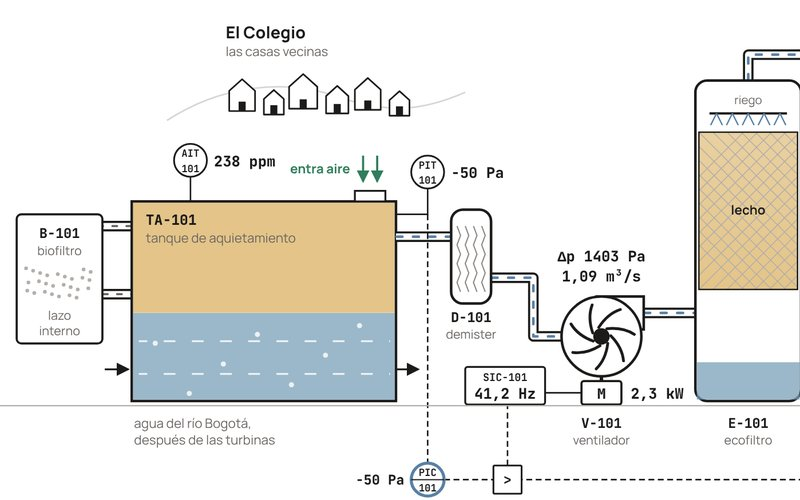
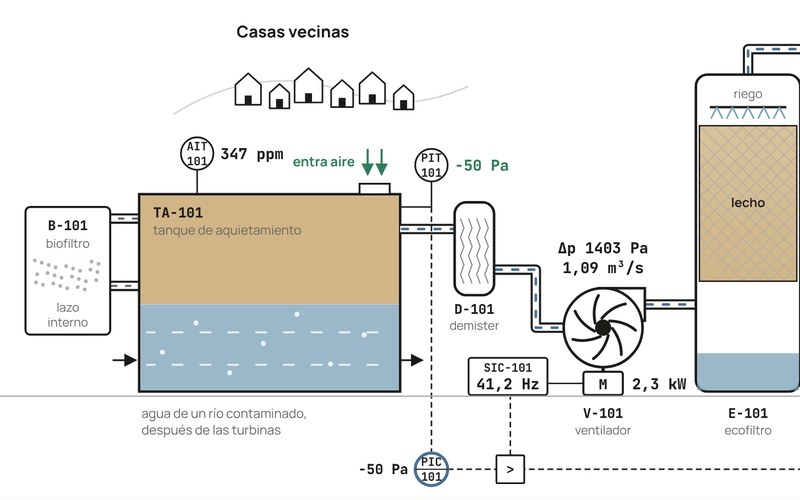
Ecofiltro: el simulador sin nombres de la central ni del municipio
El simulador habla de una central hidroeléctrica colombiana que trata el H₂S
que suelta el agua de un río contaminado: el diagrama muestra casas vecinas sin
nombre, el agua llega «de un río contaminado» y las fugas son «del tanque», sin
tratar. Cambian el rótulo y el texto de entrada de la actividad, el indicador y
el estado de las fugas, el balance, los comentarios del código, la descripción
en los datos del curso y la miniatura, rehecha desde el diagrama nuevo.

En «Lo que sigue», el simulador deja escapar gas sin tratar, no «hacia el
pueblo», en los dos idiomas.

Claude-Session: https://claude.ai/code/session_01JZRMX1gnU5bddoyutno44Z

Changed region(s): [[0.0, 0.06, 1.0, 1.0], [0.25, 0.03, 0.5625, 0.24], [0.2188, 0.21, 0.25, 0.24]]

diff --git a/public/classroom/iqya-2031-2026-20/simulaciones/Explorador_Ecofiltro.html b/public/classroom/iqya-2031-2026-20/simulaciones/Explorador_Ecofiltro.html
@@ -317,7 +317,7 @@ body:not(.mode-act) #aShell, body:not(.mode-act) #kpisAct, body:not(.mode-act) #
   <div class="kpis" id="kpisAct">
     <div class="kpi"><div class="lbl">H₂S que llega</div><div class="v" id="kaIn">—</div><div class="u">ppm · tanque de aquietamiento</div></div>
     <div class="kpi" id="kaOutc"><div class="lbl">H₂S a la salida</div><div class="v" id="kaOut">—</div><div class="u" id="kaOutu">ppm · criterio interno de 20 ppm</div></div>
-    <div class="kpi" id="kaLeakc"><div class="lbl">Fugas hacia El Colegio</div><div class="v" id="kaLeak">—</div><div class="u" id="kaLeaku">g/h</div></div>
+    <div class="kpi" id="kaLeakc"><div class="lbl">Fugas del tanque</div><div class="v" id="kaLeak">—</div><div class="u" id="kaLeaku">g/h</div></div>
     <div class="kpi" id="kaPc"><div class="lbl">Presión del tanque</div><div class="v" id="kaP">—</div><div class="u" id="kaPu">Pa</div></div>
     <div class="kpi"><div class="lbl">Ventilador V-101</div><div class="v" id="kaF">—</div><div class="u" id="kaFu">Hz</div></div>
     <div class="kpi"><div class="lbl">Potencia</div><div class="v" id="kaW">—</div><div class="u" id="kaWu">kW</div></div>
@@ -369,7 +369,7 @@ body:not(.mode-act) #aShell, body:not(.mode-act) #kpisAct, body:not(.mode-act) #
 
     <!-- 1 · Planta -->
     <section class="panel apanel on" data-apanel="pl">
-      <div class="ph"><h2>La planta en el tiempo</h2><span class="lbl">Central Hidroeléctrica El Paraíso · El Colegio, Cundinamarca</span><p>El V-101 saca el gas del tanque de aquietamiento y lo empuja por el ecofiltro y el carbón activado. Si saca menos gas del que suelta el agua, el tanque sube de presión y el H₂S se escapa hacia el pueblo. La carga cambia hora por hora: siga la corrida en el diagrama y en las tendencias.</p></div>
+      <div class="ph"><h2>La planta en el tiempo</h2><span class="lbl">Una central hidroeléctrica colombiana</span><p>El V-101 saca el gas del tanque de aquietamiento y lo empuja por el ecofiltro y el carbón activado. Si saca menos gas del que suelta el agua, el tanque sube de presión y el H₂S se escapa por sus rendijas sin tratar. La carga cambia hora por hora: siga la corrida en el diagrama y en las tendencias.</p></div>
       <div class="card">
         <div class="stage iz-wrap" id="aStage">
           <svg id="actPlant" role="img" aria-label="Diagrama de la planta: el tanque de aquietamiento, el biofiltro, el demister D-101, el ventilador V-101, el ecofiltro E-101, el demister D-102, el carbón activado y la chimenea, con sus instrumentos, el lazo de control y la presión a lo largo del tren de gas"></svg>
@@ -1011,7 +1011,7 @@ IsoZoom.prototype.movePinch = function () {
 };
 /* =====================================================================
    Explorador del ecofiltro · Proyecto de Operaciones Unitarias
-   El biopercolador E-101 de la Central Hidroeléctrica El Paraíso, solo:
+   El biopercolador E-101 de la central, solo:
    el gas que llega del tanque, el ventilador, el lecho, el riego y la
    biopelícula. Modelo de la tesis de maestría de Jesús Rafael Acevedo
    Mastrogiacomo (Uniandes, 2026), ecuaciones 4.16, 4.17, 4.7 y 5.3.
@@ -1995,7 +1995,7 @@ function initFig() {
    El modelo de Jesús Rafael Acevedo Mastrogiacomo con el ecofiltro de este explorador. El gas se desprende del agua
    en el tanque de aquietamiento TA-101 a razón constante; lo que varía es cuánto H₂S trae. El V-101 lo extrae por el
    D-101, lo empuja por el ecofiltro E-101, el D-102 y el tanque de adsorción, y lo bota por la chimenea. Si extrae
-   menos gas del que se desprende, el tanque sube de presión y el gas sale por las rendijas hacia el pueblo; si extrae
+   menos gas del que se desprende, el tanque sube de presión y el gas sale por las rendijas sin tratar; si extrae
    más, entra aire de afuera. Los ventiladores del biofiltro B-101 mueven un lazo interno fijo que vuelve al tanque.
    El gas es incompresible: las presiones del tren se apartan menos del 2 % de la atmosférica. */
 var PLANT = {
@@ -2239,7 +2239,7 @@ function aBuild() {
   $('#aScen').innerHTML = SCEN.map(function (s) {
     return '<button type="button" class="opt" data-v="' + s.id + '"><span class="dotc" style="background:' + s.dot + '"></span><span>' + esc(s.name) + '</span><span class="x">' + s.days + (s.days === 1 ? ' día' : ' días') + '</span></button>';
   }).join('');
-  $('#aLead').innerHTML = 'La Central Hidroeléctrica El Paraíso, en El Colegio (Cundinamarca), genera energía con agua del río Bogotá. Al frenarse en el tanque de aquietamiento, esa agua suelta sulfuro de hidrógeno (H₂S), un gas tóxico con olor a huevo podrido que, si se escapa, llega a las casas del pueblo. El ventilador V-101 saca el gas del tanque y lo empuja por el ecofiltro, donde una biopelícula de bacterias oxida el H₂S, y por el carbón activado antes de la chimenea. Usted lo opera con el modelo dinámico de la planta que construyó Jesús Rafael Acevedo Mastrogiacomo en su maestría.';
+  $('#aLead').innerHTML = 'Una central hidroeléctrica colombiana genera energía con el agua de un río contaminado. Al frenarse en el tanque de aquietamiento, esa agua suelta sulfuro de hidrógeno (H₂S), un gas tóxico con olor a huevo podrido, y la planta lo trata antes de botarlo: el ventilador V-101 saca el gas del tanque y lo empuja por el ecofiltro, donde una biopelícula de bacterias oxida el H₂S, y por el carbón activado antes de la chimenea. Si el tanque se presuriza, el gas sale sin tratar por sus rendijas hacia las casas vecinas. Usted opera la planta con el modelo dinámico que construyó Jesús Rafael Acevedo Mastrogiacomo en su maestría, a partir de los datos de una planta real.';
   $('#aIdeas').innerHTML = [
     'Con los ductos limpios y en manual, busque la frecuencia más baja con la que el tanque no bota gas. Compruébela con el balance de energía mecánica y con la curva del ventilador (pestaña 2).',
     'Ensucie los ductos y los demisters. ¿Qué les pasa al caudal, a la presión del tanque y a la potencia? ¿Hasta dónde tiene que subir la frecuencia para que el tanque vuelva a quedar en succión?',
@@ -2316,10 +2316,10 @@ function aPlantSvg() {
     '<marker id="aArr" viewBox="0 0 8 8" refX="7" refY="4" markerWidth="7" markerHeight="7" orient="auto"><path d="M0 0L8 4L0 8Z" style="fill:var(--ink)"/></marker>' +
     '<marker id="aArrG" viewBox="0 0 8 8" refX="7" refY="4" markerWidth="6" markerHeight="6" orient="auto"><path d="M0 0L8 4L0 8Z" style="fill:var(--ok)"/></marker></defs>';
   s += '<rect class="chart-bg" x="0" y="' + A_Y0 + '" width="1000" height="' + A_H + '"/>';
-  /* el pueblo */
+  /* las casas vecinas */
   s += '<path class="hill" d="M150 106C196 76 250 70 296 86S372 96 404 82"/>';
   A_HOUSES.forEach(function (q) { var x = q[0], y = q[1], w = q[2], h = w * 0.78; s += '<path class="house" d="M' + (x - w / 2) + ' ' + y + 'V' + r1(y - h) + 'L' + x + ' ' + r1(y - h - w * 0.45) + 'L' + (x + w / 2) + ' ' + r1(y - h) + 'V' + y + 'Z"/><rect x="' + (x - 3) + '" y="' + (y - 8) + '" width="6" height="8" style="fill:var(--ink)"/>'; });
-  s += TX(204, 34, 'El Colegio', { fs: 14, fw: 750 }) + TX(204, 49, 'las casas vecinas', { fs: 11, c: M });
+  s += TX(204, 40, 'Casas vecinas', { fs: 14, fw: 750 });
   s += '<g class="apuffs">'; for (i = 0; i < 10; i++) s += '<circle class="puff" r="4" cx="323" cy="160" opacity="0"/>'; s += '</g>';
   /* el biofiltro, en su lazo */
   s += duct('M120 196H95', null, 'bfflow') + duct('M95 254H120', null, 'bfflow');
@@ -2381,7 +2381,7 @@ function aPlantSvg() {
   s += '<g id="aCtlS"><path class="sig" d="M440 400V348"/><rect class="inst" x="428" y="400" width="24" height="24" rx="1"/><text class="inst-t" x="440" y="416" style="font-size:12px">&gt;</text></g>';
   /* suelo y rótulos */
   s += '<path d="M0 349H1000" style="stroke:var(--n400);stroke-width:1.2"/>';
-  s += TX(122, 368, 'agua del río Bogotá,', { fs: 11, c: M }) + TX(122, 382, 'después de las turbinas', { fs: 11, c: M });
+  s += TX(122, 368, 'agua de un río contaminado,', { fs: 11, c: M }) + TX(122, 382, 'después de las turbinas', { fs: 11, c: M });
   s += TX(520, 368, 'V-101', { a: 'middle', fs: 11.5, fw: 750, mono: true }) + TX(520, 382, 'ventilador', { a: 'middle', fs: 10.5, c: M });
   s += TX(645, 368, 'E-101', { a: 'middle', fs: 11.5, fw: 750, mono: true }) + TX(645, 382, 'ecofiltro', { a: 'middle', fs: 10.5, c: M });
   s += TX(861, 368, 'adsorción', { a: 'middle', fs: 10.5, c: M }) + TX(941, 368, 'chimenea', { a: 'middle', fs: 10.5, c: M });
@@ -2458,7 +2458,7 @@ function aRender() {
   var modeTxt = auto ? 'automático, ' + (A.cmd === 'P' ? 'manda la presión' : A.cmd === 'max' ? 'en 60 Hz' : A.cmd === 'min' ? 'en 20 Hz' : 'manda el H₂S') : 'manual a ' + fmtN(A.f, 1) + ' Hz';
   aHtml('aCtx', '<b>' + esc(sc.name) + '</b> · ' + aClock(A.t) + ' · ' + modeTxt + (A.K === PLANT.K.dirty ? ' · ductos sucios' : ''));
   var st = $('#aStatus'); st.className = 'status' + (leak ? ' inv' : over ? ' adv' : '');
-  aTxt('aStatusTxt', leak ? 'Fugas hacia El Colegio' : over ? 'Sin fugas · más de 20 ppm' : 'Sin fugas · cumple 20 ppm');
+  aTxt('aStatusTxt', leak ? 'Fugas del tanque' : over ? 'Sin fugas · más de 20 ppm' : 'Sin fugas · cumple 20 ppm');
   /* barra lateral */
   aHtml('aNow', esc(sc.name) + '<small>' + (aEnded ? 'terminó la corrida' : aClock(A.t) + ' · ' + modeTxt) + '</small>');
   if (auto) {
@@ -2473,15 +2473,15 @@ function aRender() {
     aPlantLive();
     aHtml('aHud', '<span class="chip acc">' + aClock(A.t) + '</span><span class="chip">' + esc(sc.name) + '</span><span class="chip">' + esc(modeTxt.charAt(0).toUpperCase() + modeTxt.slice(1)) + '</span>' + (leak ? '<span class="chip red">fugas ' + fmtG(A.leakGh) + ' g/h</span>' : ''));
     var c1 = h.dP > 0.5
-      ? 'El V-101 saca menos gas del que suelta el agua: el tanque está en <b>' + aSgn(h.dP) + ' Pa</b> y se escapan <b>' + fmtG(A.leakGh) + ' g/h</b> de H₂S hacia El Colegio.'
-      : 'El tanque está en succión (<b>' + aSgn(h.dP) + ' Pa</b>): por las rendijas entra aire y no sale gas hacia El Colegio.';
+      ? 'El V-101 saca menos gas del que suelta el agua: el tanque está en <b>' + aSgn(h.dP) + ' Pa</b> y se escapan <b>' + fmtG(A.leakGh) + ' g/h</b> de H₂S sin tratar por las rendijas.'
+      : 'El tanque está en succión (<b>' + aSgn(h.dP) + ' Pa</b>): por las rendijas entra aire y no se escapa gas.';
     var c2 = ' Al ecofiltro llegan <b>' + fmtPpm(A.cin) + ' ppm</b> y salen <b>' + fmtPpm(A.cout) + '</b>, el ' + fmtN(A.eta * 100, 0) + ' % de remoción' +
       (A.cout > CRIT ? ', por encima del criterio interno de ' + CRIT + ' ppm: el carbón activado recibe ' + fmtG(A.carbonGh) + ' g/h y se gasta más rápido.' : ', dentro del criterio interno de ' + CRIT + ' ppm.');
     aHtml('aCap', '<b>' + aClock(A.t).charAt(0).toUpperCase() + aClock(A.t).slice(1) + '.</b> ' + c1 + c2);
     var en = $('#aEnd');
     if (aEnded) {
       var a = A.acc;
-      aHtml('aEnd', '<h3>Terminó la corrida</h3><p>' + esc(sc.name) + ', ' + esc(aRunLabel().charAt(0).toLowerCase() + aRunLabel().slice(1)) + '. Fugas hacia El Colegio: <b>' + fmtKg(a.leak) + '</b>. Horas con más de ' + CRIT + ' ppm a la salida: <b>' + fmtN(a.hOver, 0) + ' h</b>. Al carbón activado: <b>' + fmtKg(a.carbon) + '</b>. Energía: <b>' + fmtN(a.kWh, 0) + ' kWh</b>.</p><div class="row"><button type="button" data-end="bal">Ver el balance y las corridas</button><button type="button" data-end="new">Repetir la corrida</button></div>');
+      aHtml('aEnd', '<h3>Terminó la corrida</h3><p>' + esc(sc.name) + ', ' + esc(aRunLabel().charAt(0).toLowerCase() + aRunLabel().slice(1)) + '. Fugas del tanque: <b>' + fmtKg(a.leak) + '</b>. Horas con más de ' + CRIT + ' ppm a la salida: <b>' + fmtN(a.hOver, 0) + ' h</b>. Al carbón activado: <b>' + fmtKg(a.carbon) + '</b>. Energía: <b>' + fmtN(a.kWh, 0) + ' kWh</b>.</p><div class="row"><button type="button" data-end="bal">Ver el balance y las corridas</button><button type="button" data-end="new">Repetir la corrida</button></div>');
       en.hidden = false;
     } else en.hidden = true;
     aTrend();
@@ -2493,13 +2493,13 @@ function aRender() {
 }
 function aBalance() {
   var a = A.acc, tot = a.bf + a.btf + a.carbon + a.leak || 1, hrs = A.t / 3600 || 1;
-  var parts = [['B-101, en el lazo interno', a.bf, AC.bf], ['E-101, el ecofiltro', a.btf, AC.btf], ['al carbón activado', a.carbon, AC.carbon], ['fugas hacia El Colegio', a.leak, AC.leak]];
+  var parts = [['B-101, en el lazo interno', a.bf, AC.bf], ['E-101, el ecofiltro', a.btf, AC.btf], ['al carbón activado', a.carbon, AC.carbon], ['fugas del tanque', a.leak, AC.leak]];
   aHtml('aStack', parts.map(function (p) { var w = p[1] / tot * 100; return '<div style="flex-basis:' + r1(w) + '%;background:' + p[2] + '">' + (w > 9 ? '<span>' + fmtN(w, 0) + ' %</span>' : '') + '</div>'; }).join(''));
   aHtml('aLeg', parts.map(function (p) { return '<div><i style="background:' + p[2] + '"></i><span>' + p[0] + '</span><b>' + fmtKg(p[1]) + ' · ' + fmtN(p[1] / tot * 100, 0) + ' %</b></div>'; }).join(''));
   aTxt('aBalT', byId(SCEN, A.scen).name + ' · ' + aClock(A.t));
   aTxt('aBalTot', fmtKg(tot) + ' en total');
   var card = function (l, v, u, bad) { return '<div><div class="lbl">' + l + '</div><div class="v' + (bad ? ' bad' : '') + '">' + v + '</div><div class="u">' + u + '</div></div>'; };
-  aHtml('aCards', card('Fugas hacia El Colegio', fmtKg(a.leak), 'de H₂S que salió del tanque sin tratar', a.leak > 1) +
+  aHtml('aCards', card('Fugas del tanque', fmtKg(a.leak), 'de H₂S que salió del tanque sin tratar', a.leak > 1) +
     card('Horas con fugas', fmtN(a.hLeak, 1) + ' h', 'con el tanque por encima de la atmosférica', a.hLeak > 0.05) +
     card('Horas con más de ' + CRIT + ' ppm', fmtN(a.hOver, 1) + ' h', fmtN(a.hOver / hrs * 100, 0) + ' % de la corrida, a la salida del ecofiltro', a.hOver > 0.05) +
     card('Al carbón activado', fmtKg(a.carbon), 'lo que el ecofiltro deja pasar', false) +

diff --git a/context/strings/next.ts b/context/strings/next.ts
@@ -13,7 +13,7 @@ export const next = {
 
   // Un ejemplo: el ecofiltro
   'next.eco.title':      { en: 'An example: the ecofilter', es: 'Un ejemplo: el ecofiltro' },
-  'next.eco.p1':         { en: 'The ecofilter works as an example because it has already started to reach the classroom. In 2024, Mariana García Alba and Esteban Muñoz Cardona mapped the plant’s process flow diagram in their undergraduate project and proposed improvements to the ecofilter. In his master’s, Jesús Rafael Acevedo Mastrogiacomo built a dynamic model of the system and a controller that finds the fans’ optimal operating point on its own, and in 2026-20 a challenge in the Professional Development Project Seminar models with computational fluid dynamics how the gas is distributed in the biofilters. With Jesús Rafael’s model I built a Unit Operations Project simulator that enters the course in 2027-10 as a class activity: students run the ecofilter’s fan while the hydrogen sulfide load changes hour by hour, use the mechanical energy balance to check when the tank lets gas escape toward the town, and see why removal drops as the load rises. The step I would like to take now is for them to diagnose a failing unit with it, with an artificial intelligence assistant at their side, and to measure whether those who go through it diagnose a different unit better once the tool is taken away.', es: 'El ecofiltro sirve de ejemplo porque ya empezó a llegar al aula. En 2024 Mariana García Alba y Esteban Muñoz Cardona levantaron en su proyecto de grado el diagrama de flujo de la planta y propusieron mejoras para el ecofiltro. En su maestría, Jesús Rafael Acevedo Mastrogiacomo construyó un modelo dinámico del sistema y un control que encuentra por sí mismo el punto óptimo de los ventiladores, y en 2026-20 un reto del Seminario de Proyecto de Desarrollo Profesional modela con dinámica de fluidos computacional cómo se reparte el gas en los biofiltros. Con el modelo de Jesús Rafael construí un simulador de Proyecto de Operaciones Unitarias que entra al curso en 2027-10 como actividad de clase: los estudiantes operan el ventilador del ecofiltro mientras la carga de sulfuro de hidrógeno cambia hora por hora, comprueban con el balance de energía mecánica cuándo el tanque deja escapar gas hacia el pueblo y ven por qué la remoción cae cuando sube la carga. El paso que quisiera dar ahora es que diagnostiquen con él una unidad que falla, con un asistente de inteligencia artificial al lado, y medir si quienes pasan por él diagnostican mejor otra unidad cuando se les quita la herramienta.' },
+  'next.eco.p1':         { en: 'The ecofilter works as an example because it has already started to reach the classroom. In 2024, Mariana García Alba and Esteban Muñoz Cardona mapped the plant’s process flow diagram in their undergraduate project and proposed improvements to the ecofilter. In his master’s, Jesús Rafael Acevedo Mastrogiacomo built a dynamic model of the system and a controller that finds the fans’ optimal operating point on its own, and in 2026-20 a challenge in the Professional Development Project Seminar models with computational fluid dynamics how the gas is distributed in the biofilters. With Jesús Rafael’s model I built a Unit Operations Project simulator that enters the course in 2027-10 as a class activity: students run the ecofilter’s fan while the hydrogen sulfide load changes hour by hour, use the mechanical energy balance to check when the tank lets untreated gas escape, and see why removal drops as the load rises. The step I would like to take now is for them to diagnose a failing unit with it, with an artificial intelligence assistant at their side, and to measure whether those who go through it diagnose a different unit better once the tool is taken away.', es: 'El ecofiltro sirve de ejemplo porque ya empezó a llegar al aula. En 2024 Mariana García Alba y Esteban Muñoz Cardona levantaron en su proyecto de grado el diagrama de flujo de la planta y propusieron mejoras para el ecofiltro. En su maestría, Jesús Rafael Acevedo Mastrogiacomo construyó un modelo dinámico del sistema y un control que encuentra por sí mismo el punto óptimo de los ventiladores, y en 2026-20 un reto del Seminario de Proyecto de Desarrollo Profesional modela con dinámica de fluidos computacional cómo se reparte el gas en los biofiltros. Con el modelo de Jesús Rafael construí un simulador de Proyecto de Operaciones Unitarias que entra al curso en 2027-10 como actividad de clase: los estudiantes operan el ventilador del ecofiltro mientras la carga de sulfuro de hidrógeno cambia hora por hora, comprueban con el balance de energía mecánica cuándo el tanque deja escapar gas sin tratar y ven por qué la remoción cae cuando sube la carga. El paso que quisiera dar ahora es que diagnostiquen con él una unidad que falla, con un asistente de inteligencia artificial al lado, y medir si quienes pasan por él diagnostican mejor otra unidad cuando se les quita la herramienta.' },
   'next.eco.p2':         { en: 'The same path works for the other lines. In health, Industrial Biotechnology turned in 2023-20 around recombinant proteins, and in the project with the Fundación Santa Fe de Bogotá we learned how hard it is to produce antimicrobial peptides in microorganisms that those same peptides attack. The course’s cases can come from there, from the nanoparticles we designed to carry drugs and genes into the cell, and from vaccine fermentation and scale-up, which several of my students have worked on.', es: 'El mismo camino sirve para las otras líneas. En salud, Biotecnología Industrial giró en 2023-20 alrededor de las proteínas recombinantes, y en el proyecto con la Fundación Santa Fe de Bogotá aprendimos lo difícil que es producir péptidos antimicrobianos en microorganismos que esos mismos péptidos atacan. De ahí, de las nanopartículas que diseñamos para llevar fármacos y genes a la célula, y de la fermentación y el escalado de vacunas, en los que han trabajado varios de mis estudiantes, pueden salir los casos del curso.' },
   'next.eco.s1.when':    { en: '2023-2024', es: '2023-2024' },
   'next.eco.s1':         { en: 'At the plant', es: 'En la planta' },
@@ -28,7 +28,7 @@ export const next = {
   'next.eco.s4':         { en: 'Measuring it', es: 'Medirlo' },
   'next.eco.s4.text':    { en: 'Diagnosing a failing unit with the simulator and measuring whether students solve another one without the tool.', es: 'Diagnosticar con el simulador una unidad que falla y medir si los estudiantes resuelven otra sin la herramienta.' },
   'next.eco.caption':    { en: 'The ecofilter of the El Paraíso Hydroelectric Power Plant as a complete example, in four moments. The marked one is the case, with what an engineer cannot delegate.', es: 'El ecofiltro de la Central Hidroeléctrica El Paraíso como ejemplo completo, en cuatro momentos. El marcado es el caso, con lo que un ingeniero no puede delegar.' },
-  'next.sims.caption':   { en: 'Two of the Unit Operations Project simulators. The ecofilter one, built on Jesús Rafael’s model, enters the course in 2027-10: students run the plant’s fan while the hydrogen sulfide load changes and see when the tank lets gas escape toward the town. In the centrifugal pumps one, the equipment moves with the course’s models and cases.', es: 'Dos de los simuladores de Proyecto de Operaciones Unitarias. El del ecofiltro, hecho con el modelo de Jesús Rafael, entra al curso en 2027-10: los estudiantes operan el ventilador de la planta mientras cambia la carga de sulfuro de hidrógeno y ven cuándo el tanque deja escapar gas hacia el pueblo. En el de bombas centrífugas, el equipo se mueve con los modelos y los casos del curso.' },
+  'next.sims.caption':   { en: 'Two of the Unit Operations Project simulators. The ecofilter one, built on Jesús Rafael’s model, enters the course in 2027-10: students run the plant’s fan while the hydrogen sulfide load changes and see when the tank lets untreated gas escape. In the centrifugal pumps one, the equipment moves with the course’s models and cases.', es: 'Dos de los simuladores de Proyecto de Operaciones Unitarias. El del ecofiltro, hecho con el modelo de Jesús Rafael, entra al curso en 2027-10: los estudiantes operan el ventilador de la planta mientras cambia la carga de sulfuro de hidrógeno y ven cuándo el tanque deja escapar gas sin tratar. En el de bombas centrífugas, el equipo se mueve con los modelos y los casos del curso.' },
   'next.sims.link':      { en: 'All the simulators', es: 'Todos los simuladores' },
 
   // Medirlo

diff --git a/components/data/classroom/pou-2026-20.ts b/components/data/classroom/pou-2026-20.ts
@@ -1202,7 +1202,7 @@ export const pou202620Course: Course = {
       week: 16,
       title: 'Explorador del ecofiltro',
       description:
-        'Un caso de frontera: el biopercolador de la Central Hidroeléctrica El Paraíso, en El Colegio, que retira el sulfuro de hidrógeno (H₂S) del gas del tanque de aquietamiento para que no llegue a las casas vecinas. Abre en una actividad de clase: usted opera el ventilador V-101 durante una semana en la que el H₂S que suelta el agua cambia hora por hora, con el modelo dinámico de la planta de la tesis de maestría de Jesús Rafael Acevedo Mastrogiacomo. El gas se trata como un fluido incompresible: el balance de energía mecánica entre el tanque y la chimenea y la curva del ventilador dicen qué caudal pasa, si el tanque queda en succión o bota gas hacia el pueblo y cuánta potencia cuesta. Opérelo a mano o con un control automático que mide el H₂S a la salida del ecofiltro y mueve la frecuencia, con o sin el límite de presión del tanque; ensucie los demisters, vea cómo la remoción del ecofiltro cae cuando sube la carga y compare las corridas por fugas, horas por encima de 20 ppm, H₂S que llega al carbón y energía. Detrás está el explorador completo. Véalo en isométrico, como un equipo de planta: la torre de 3 m de diámetro abierta por su eje, con la entrada de gas, la rejilla, los 6 m de empaque estructurado en capas, los aspersores y el eliminador de niebla; a un lado el demister y los dos ventiladores (al de servicio se le ve el rotor) y al otro el tanque de recirculación con su bomba sumergible, el rotámetro y la válvula de la reposición. El H₂S sube por el lecho y se va quedando en la película de líquido según el perfil que calcula el modelo de la tesis de maestría de Jesús Rafael Acevedo Mastrogiacomo (balances de Diks y Ottengraf, cinética de Monod integrada en la biopelícula y transferencia de Bravo, Rocha y Fair), que reproduce los datos de operación de la planta. Mueva la carga, el variador del ventilador, la altura del lecho, el riego, la fracción que moja el aspersor y la actividad de la biopelícula. Incluye la curva del ventilador contra la del sistema, la salida contra el caudal, el techo que pone la transferencia de masa, el balance de azufre con el sulfato y el pH de la purga frente a lo que mide el laboratorio, lo que haría falta para llegar a 20 ppm y nueve configuraciones, entre ellas la promesa de diseño y los fallos que encontró el diagnóstico.',
+        'Un caso de frontera: el biopercolador de una central hidroeléctrica colombiana, que retira el sulfuro de hidrógeno (H₂S) que suelta el agua de un río contaminado en el tanque de aquietamiento. Abre en una actividad de clase: usted opera el ventilador V-101 durante una semana en la que el H₂S que suelta el agua cambia hora por hora, con el modelo dinámico de la planta de la tesis de maestría de Jesús Rafael Acevedo Mastrogiacomo. El gas se trata como un fluido incompresible: el balance de energía mecánica entre el tanque y la chimenea y la curva del ventilador dicen qué caudal pasa, si el tanque queda en succión o bota gas sin tratar por sus rendijas y cuánta potencia cuesta. Opérelo a mano o con un control automático que mide el H₂S a la salida del ecofiltro y mueve la frecuencia, con o sin el límite de presión del tanque; ensucie los demisters, vea cómo la remoción del ecofiltro cae cuando sube la carga y compare las corridas por fugas, horas por encima de 20 ppm, H₂S que llega al carbón y energía. Detrás está el explorador completo. Véalo en isométrico, como un equipo de planta: la torre de 3 m de diámetro abierta por su eje, con la entrada de gas, la rejilla, los 6 m de empaque estructurado en capas, los aspersores y el eliminador de niebla; a un lado el demister y los dos ventiladores (al de servicio se le ve el rotor) y al otro el tanque de recirculación con su bomba sumergible, el rotámetro y la válvula de la reposición. El H₂S sube por el lecho y se va quedando en la película de líquido según el perfil que calcula el modelo de la tesis de maestría de Jesús Rafael Acevedo Mastrogiacomo (balances de Diks y Ottengraf, cinética de Monod integrada en la biopelícula y transferencia de Bravo, Rocha y Fair), que reproduce los datos de operación de la planta. Mueva la carga, el variador del ventilador, la altura del lecho, el riego, la fracción que moja el aspersor y la actividad de la biopelícula. Incluye la curva del ventilador contra la del sistema, la salida contra el caudal, el techo que pone la transferencia de masa, el balance de azufre con el sulfato y el pH de la purga frente a lo que mide el laboratorio, lo que haría falta para llegar a 20 ppm y nueve configuraciones, entre ellas la promesa de diseño y los fallos que encontró el diagnóstico.',
       sessionNumber: 31,
       file: 'Explorador_Ecofiltro.html',
       bannerImg: '/classroom/iqya-2031-2026-20/simuladores-banners/explorador-ecofiltro.jpg',
